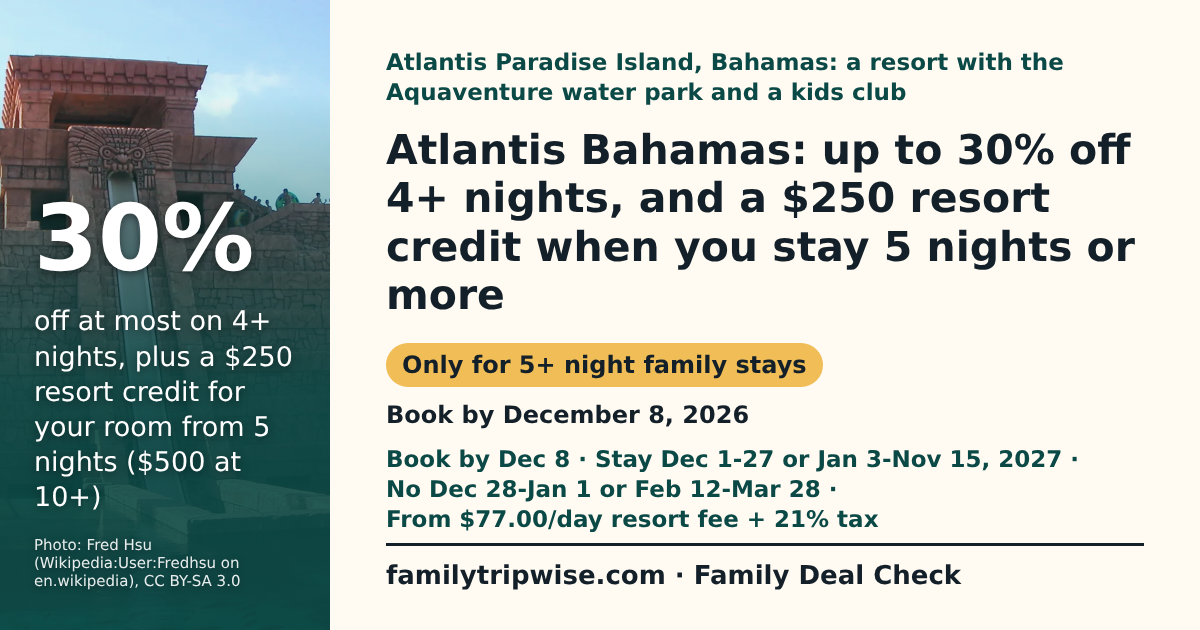
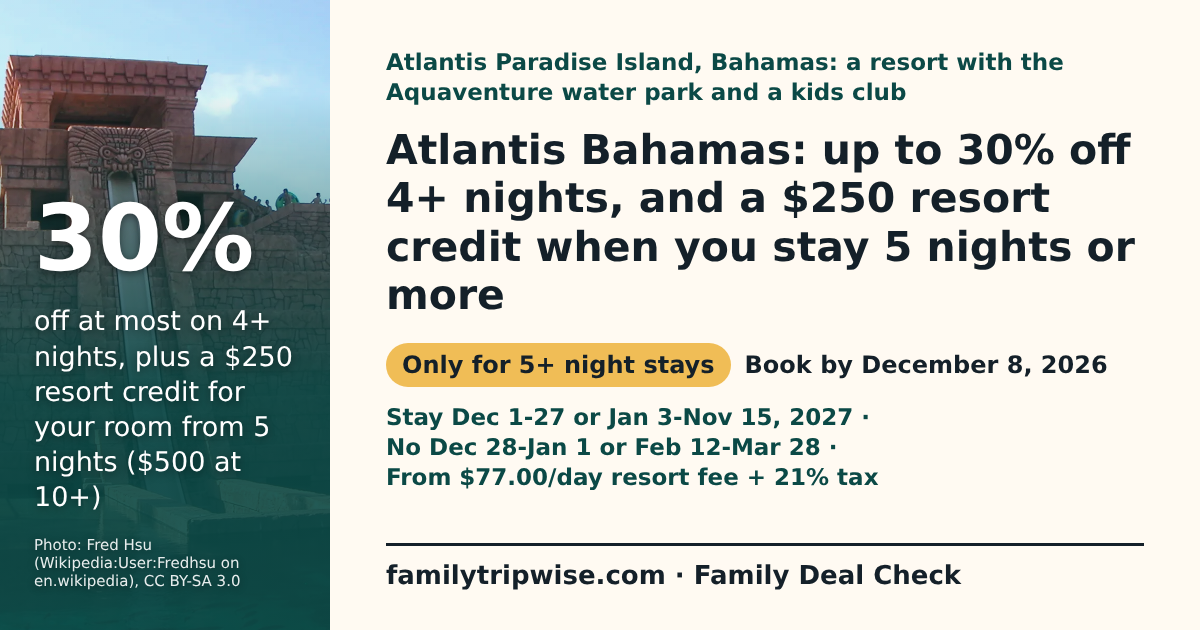
G09w: Atlantis Cyber Sale review fixes (evidence wording, shorter top, compare)
Claude-Session: https://claude.ai/code/session_018uWk6vnvh8cWxuzLkuCD3s

Changed region(s): [[0.3083, 0.5429, 0.925, 0.8444]]

diff --git a/site/deals/atlantis-bahamas-cyber-sale-2026.html b/site/deals/atlantis-bahamas-cyber-sale-2026.html
@@ -27,7 +27,7 @@
             <p class="eyebrow deal-context">Atlantis Paradise Island, Bahamas: a resort with the Aquaventure water park and a kids club</p>
             <h1>Atlantis Bahamas: up to 30% off 4+ nights, and a $250 resort credit when you stay 5 nights or more</h1>
             <div class="spend-save spend-save-missing" role="group" aria-label="What it costs a family of 4"><p class="ss-title">Trip cost for 2 adults and 2 kids aged 4 and 8, 5 nights at The Coral, without flights</p><p class="ss-lead">No price estimate yet</p><p>No Atlantis price seen for this family or regular rate; price The Coral on atlantisbahamas.com. Extra: 21% tax and levies, $77.00/day resort fee, required tips for ages 12+.</p></div>
-            <ul class="deal-chips" aria-label="Key terms"><li class="deal-chip-verdict deal-verdict-only_for">Only for 5+ night family stays</li><li>Book by December 8, 2026</li><li>Stay Dec 1-27 or Jan 3-Nov 15, 2027</li><li>No Dec 28-Jan 1 or Feb 12-Mar 28</li></ul>
+            <ul class="deal-chips" aria-label="Key terms"><li class="deal-chip-verdict deal-verdict-only_for">Only for 5+ night stays</li><li>Book by December 8, 2026</li><li>Stay Dec 1-27 or Jan 3-Nov 15, 2027</li><li>No Dec 28-Jan 1 or Feb 12-Mar 28</li></ul>
             
             <p class="contributor-credit">Researched with AI (<a href="../contributors/miles-rowan.html">Miles Rowan</a>) · sources linked and dated · <a href="../about.html">How we check</a></p>
           </div>
@@ -35,12 +35,12 @@
         </div>
       </section>
       <section id="deal-answer" class="container answer-box deal-glance" aria-label="Verdict, cost and savings">
-        <p class="deal-verdict deal-verdict-only_for"><strong>Our verdict:</strong> Worth a look only if you are set on 5+ nights at Atlantis: the credit can pay for the kids club, but no regular rate is shown, 4 nights gets no credit, and the resort fee, gratuities and 21% tax and levies add up for a family of 4.</p>
+        <p class="deal-verdict deal-verdict-only_for"><strong>Our verdict:</strong> Worth a look only for 5+ nights at Atlantis: the credit can pay for the kids club, but no regular rate is shown and fees and 21% tax add up.</p>
         <p><strong>Best for:</strong> Families planning 5 or more nights at Atlantis in early December or in 2027 outside mid-February to late March, who would use the kids club or dolphin activities.</p>
-        <p><strong>Not for:</strong> Families who want an all-inclusive price, a short 2 or 3 night stay, or a trip from December 28 to January 1 or February 12 to March 28, 2027: those dates are blacked out.</p>
+        <p><strong>Not for:</strong> Families wanting all-inclusive, a 2 or 3 night stay, or a trip from December 28 to January 1 or February 12 to March 28, 2027.</p>
         <p class="deal-also"><strong>Also note:</strong> From $77.00/day resort fee + 21% tax</p>
-        <p class="deal-money"><strong>Saves: up to 30% off the room on 4+ nights (&quot;up to&quot; is a maximum; your dates may get less) and one resort credit for your room: $250 for 5 nights, $300 for 6, $350 for 7 to 9, $500 for 10+.</strong></p>
-        <p>Trip cost: we have no checked price for a family of 4. Price 5 nights for 2 adults and 2 kids on atlantisbahamas.com; the 21% tax and levies, resort fee, gratuities (12+), meals and flights (for example from New York City, not priced) are extra.</p>
+        <p class="deal-money"><strong>Saves: up to 30% off the room on 4+ nights (a maximum), plus one room credit: $250 for 5 nights, $300 for 6, $350 for 7 to 9, $500 for 10+.</strong></p>
+        <p>Trip cost: we have no checked price for a family of 4. Fees, tax, meals and flights (for example from New York City) are extra.</p>
       </section>
         <figure class="container licensed-photo deal-photo">
           <img src="../images/atlantis-mayan-temple-slides.webp" alt="A water slide drops steeply down the front of a tall Mayan-style stone temple into a turquoise pool at Atlantis, with palm trees and people at the top" width="1600" height="1200" class="intrinsic-photo" loading="eager" fetchpriority="high" decoding="async">
@@ -49,15 +49,15 @@
       <section class="container page-section" aria-labelledby="deal-get-title">
         <h2 id="deal-get-title">What a family of 4 gets</h2>
         <p>Example family of 4: 2 adults and 2 kids aged 4 and 8, in one room for 5 nights at The Coral.</p>
-        <ul><li>Up to 30% off the room rate at The Coral, The Royal, The Reef or Harborside; the page does not say which rooms or dates get the full 30%.</li><li>One $250 credit for the room on a 5-night stay, usable at the kids club (Atlantis Kids Adventures), Dolphin &amp; Marine Adventures or Atlantis restaurants; unused credit is lost.</li><li>&quot;Kids 5 &amp; Under Eat Free&quot; is listed for the 4-year-old, but the offer page gives no conditions.</li></ul>
+        <ul><li>Up to 30% off the room rate at The Coral, The Royal, The Reef or Harborside; the page does not say which rooms or dates get the full 30%.</li><li>One $250 credit for the room on a 5-night stay, usable at the kids club (Atlantis Kids Adventures), Dolphin &amp; Marine Adventures or Atlantis restaurants; the credit has no cash value.</li><li>&quot;Kids 5 &amp; Under Eat Free&quot; is listed for the 4-year-old, but the offer page gives no conditions.</li></ul>
       </section>
       <section class="container page-section" aria-labelledby="deal-compare-title">
         <h2 id="deal-compare-title">Is it a good deal?</h2>
-        <ul><li>Worth it only if your price with the sale beats the same dates without it. The credit doesn&#39;t pay the fees; it helps only if you&#39;d spend on activities and meals there.</li><li>Fees added at The Coral for 5 nights: 5 × $77.00 resort fee (per room or per person is not stated), gratuities of up to $14 per person per night for each guest 12 or older (both adults here), and 21% tax and levies on the room rate.</li><li>We have not seen a regular rate to compare, so price both on the Atlantis site.</li></ul>
+        <ul><li>Added at The Coral: a $77.00 daily resort fee (per room or per person is not stated), tips up to $14 per person a night for guests 12+, and 21% tax on the room.</li><li>Atlantis&#39;s earlier Fall Into Paradise sale (ended Nov 22) listed up to 35% off and a $250 credit from 4 nights; this sale&#39;s top discount is lower.</li><li>No regular rate seen: price your dates with and without the sale on the Atlantis site. The credit doesn&#39;t pay fees.</li></ul>
       </section>
       <section class="container page-section" aria-labelledby="deal-catch-title">
         <h2 id="deal-catch-title">The catch</h2>
-        <ul class="deal-catch"><li>4 nights gets the discount but no resort credit; the credit starts at 5 nights.</li><li>Not valid December 28, 2026 to January 1, 2027 or February 12 to March 28, 2027.</li><li>21% tax and levies, the daily resort fee and gratuities for everyone 12 and older are added to the room price.</li></ul>
+        <ul class="deal-catch"><li>The credit table starts at 5 nights; a 4-night stay gets the discount only.</li><li>Not valid December 28, 2026 to January 1, 2027 or February 12 to March 28, 2027.</li><li>21% tax and levies, the daily resort fee and gratuities for everyone 12 and older are added to the room price.</li></ul>
       </section>
       <section class="container page-section" aria-labelledby="deal-how-title">
         <h2 id="deal-how-title">How to get it</h2>
@@ -72,7 +72,7 @@
       <section class="container page-section" aria-labelledby="deal-proscons-title">
         <h2 id="deal-proscons-title">Pros and cons</h2>
         <div class="deal-proscons">
-          <div><h3>Pros</h3><ul><li>The resort credit can pay for the kids club or a dolphin or marine activity.</li><li>The sale runs to November 15, 2027, so summer 2027 trips qualify.</li><li>Kids 5 and under are listed as eating free.</li></ul></div>
+          <div><h3>Pros</h3><ul><li>The resort credit can pay for the kids club or a dolphin or marine activity.</li><li>Stays can run to November 15, 2027, so summer 2027 trips qualify (book by Dec 8).</li><li>Kids 5 and under are listed as eating free.</li></ul></div>
           <div><h3>Cons</h3><ul><li>21% tax and levies, a daily resort fee and gratuities for guests 12 and older are added.</li><li>Christmas to New Year and mid-February to late March 2027 are blacked out.</li><li>&quot;Up to 30%&quot; is a maximum, and no regular rate is shown to compare.</li></ul></div>
         </div>
       </section>
@@ -84,7 +84,7 @@
             <table class="deal-terms" role="table">
               <caption>What the Atlantis Paradise Island offer page said on November 23, 2026</caption>
               <thead role="rowgroup"><tr role="row"><th scope="col" role="columnheader">Term</th><th scope="col" role="columnheader">What the official page says</th></tr></thead>
-              <tbody role="rowgroup"><tr role="row"><th scope="row" role="rowheader">Headline</th><td role="cell">&quot;Up to 30% + Resort Credit of Up to $500&quot; on stays of 4 or more nights booked during Cyber Week.</td></tr><tr role="row"><th scope="row" role="rowheader">Book by</th><td role="cell">December 8 (&quot;Book now through December 8&quot;); new reservations only.</td></tr><tr role="row"><th scope="row" role="rowheader">Travel window</th><td role="cell">December 1 to 27, 2026 and January 3 to November 15, 2027. All stay dates must fall inside one eligible period (no crossover dates).</td></tr><tr role="row"><th scope="row" role="rowheader">Blackout dates</th><td role="cell">December 28, 2026 to January 1, 2027 and February 12 to March 28, 2027; the page adds that further blackout dates may apply.</td></tr><tr role="row"><th scope="row" role="rowheader">Minimum nights</th><td role="cell">4 nights for the discount; the resort credit starts at 5 nights.</td></tr><tr role="row"><th scope="row" role="rowheader">Hotels</th><td role="cell">The Coral, The Royal, The Reef and Harborside for up to 30%. The Cove has a separate offer: up to 20% off 4+ nights and a resort credit of up to $600.</td></tr><tr role="row"><th scope="row" role="rowheader">Resort credit</th><td role="cell">Per room, per stay at The Royal, The Coral, The Reef and Harborside: $250 for 5 nights, $300 for 6, $350 for 7 to 9 and $500 for 10 or more. Usable for Dolphin &amp; Marine Adventures, Atlantis Kids Adventures, CRUSH, Lost City Escape Room, Good Lies and Atlantis food and beverage outlets; not for Atlantis LIVE performances, the spa, golf, the casino, retail shops, laundry, gratuities, transportation, taxes or energy surcharges. No cash value.</td></tr><tr role="row"><th scope="row" role="rowheader">Child ages</th><td role="cell">&quot;Kids 5 &amp; Under Eat Free&quot; is listed as a highlight with no conditions on the offer page. Mandatory gratuities apply to guests 12 and older. No other child terms are stated.</td></tr><tr role="row"><th scope="row" role="rowheader">Still charged</th><td role="cell">A 21% charge on the nightly room rate (VAT and levies); a daily resort fee of $77.00 at The Coral and The Royal and $82.50 at The Cove and The Reef; mandatory gratuities for guests 12 and older of up to $14 per person per night at The Coral and The Royal, up to $30 at The Cove and up to $52 at The Reef; at Harborside, a $20.52 per person daily utility service fee and $6.25 per person daily gratuities (12 and older). All subject to change.</td></tr><tr role="row"><th scope="row" role="rowheader">Combining</th><td role="cell">Not combinable with other offers or consortia amenities; not valid for group or casino bookings; not honored for reservations cancelled and rebooked.</td></tr></tbody>
+              <tbody role="rowgroup"><tr role="row"><th scope="row" role="rowheader">Headline</th><td role="cell">&quot;Up to 30% + Resort Credit of Up to $500&quot; on stays of 4 or more nights.</td></tr><tr role="row"><th scope="row" role="rowheader">Book by</th><td role="cell">December 8 (&quot;Book now through December 8&quot;); new reservations only.</td></tr><tr role="row"><th scope="row" role="rowheader">Travel window</th><td role="cell">December 1 to 27, 2026 and January 3 to November 15, 2027. All stay dates must fall inside one eligible period (no crossover dates).</td></tr><tr role="row"><th scope="row" role="rowheader">Blackout dates</th><td role="cell">December 28, 2026 to January 1, 2027 and February 12 to March 28, 2027; the page adds that further blackout dates may apply.</td></tr><tr role="row"><th scope="row" role="rowheader">Minimum nights</th><td role="cell">4 nights for the discount; the resort credit starts at 5 nights.</td></tr><tr role="row"><th scope="row" role="rowheader">Hotels</th><td role="cell">The Coral, The Royal, The Reef and Harborside for up to 30%. The Cove has a separate offer: up to 20% off 4+ nights and a resort credit of up to $600.</td></tr><tr role="row"><th scope="row" role="rowheader">Resort credit</th><td role="cell">Per room, per stay at The Royal, The Coral, The Reef and Harborside: $250 for 5 nights, $300 for 6, $350 for 7 to 9 and $500 for 10 or more. Usable for Dolphin &amp; Marine Adventures, Atlantis Kids Adventures, CRUSH, Lost City Escape Room, Good Lies and Atlantis food and beverage outlets; not for Atlantis LIVE performances, the spa, golf, the casino, retail shops, laundry, gratuities, transportation, taxes or energy surcharges. No cash value.</td></tr><tr role="row"><th scope="row" role="rowheader">Child ages</th><td role="cell">&quot;Kids 5 &amp; Under Eat Free&quot; is listed as a highlight with no conditions on the offer page. Mandatory gratuities apply to guests 12 and older. No other child terms are stated.</td></tr><tr role="row"><th scope="row" role="rowheader">Still charged</th><td role="cell">A 21% charge on the nightly room rate (VAT and levies); a daily resort fee of $77.00 at The Coral and The Royal and $82.50 at The Cove and The Reef; mandatory gratuities for guests 12 and older of up to $14 per person per night at The Coral and The Royal, up to $30 at The Cove and up to $52 at The Reef; at Harborside, a $20.52 per person daily utility service fee and $6.25 per person daily gratuities (12 and older). All subject to change.</td></tr><tr role="row"><th scope="row" role="rowheader">Combining</th><td role="cell">Not combinable with other offers or consortia amenities; not valid for group or casino bookings; not honored for reservations cancelled and rebooked.</td></tr></tbody>
             </table>
           </div>
         </details>

diff --git a/site/deals/index.html b/site/deals/index.html
@@ -168,7 +168,7 @@
           <article class="detail-card deal-card" id="atlantis-bahamas-cyber-sale-2026">
             <p class="fresh-type">Atlantis Paradise Island, Bahamas: a resort with the Aquaventure water park and a kids club</p>
             <h3><a href="./atlantis-bahamas-cyber-sale-2026.html">Atlantis Bahamas: up to 30% off 4+ nights, and a $250 resort credit when you stay 5 nights or more</a></h3>
-            <p>Saves: up to 30% off the room on 4+ nights (&quot;up to&quot; is a maximum; your dates may get less) and one resort credit for your room: $250 for 5 nights, $300 for 6, $350 for 7 to 9, $500 for 10+.</p>
+            <p>Saves: up to 30% off the room on 4+ nights (a maximum), plus one room credit: $250 for 5 nights, $300 for 6, $350 for 7 to 9, $500 for 10+.</p>
             <p class="deal-deadline"><strong>Book by:</strong> December 8, 2026</p>
             <p class="deal-source">Official page, checked November 23, 2026: <a href="https://www.atlantisbahamas.com/offers/cyber-sale">Atlantis Exclusive Cyber Sale offer page</a></p>
           </article>

diff --git a/docs/research/deal-checks-2026-11-23-atlantis-cyber-sale.md b/docs/research/deal-checks-2026-11-23-atlantis-cyber-sale.md
@@ -6,6 +6,7 @@ Flag (watcher 2026-11-24 02:19Z): /fall-into-paradise-offer specials index now f
 |---|---|---|
 | atlantisbahamas.com/exclusive-atlantis-offers-cyber-sale | Specials listing (canonical /specials): "Exclusive Cyber Sale: Up to 30% + Resort Credit of Up to $500", "Book 4+ nights"; no dates; meta years conflict (2025/2026) | New listing; points to /offers/cyber-sale |
 | atlantisbahamas.com/offers/cyber-sale | "Book now through December 8 for stays from December 1–27, 2026, and from January 3 through November 15, 2027." Blackouts Dec 28, 2026–Jan 1, 2027 and Feb 12–Mar 28, 2027; no crossover dates. Up to 30% on 4+ nights at The Coral, The Royal, The Reef, Harborside. Credit per room, per stay: 5 nights $250, 6 $300, 7–9 $350, 10+ $500. The Cove: up to 20% on 4+ nights, credit up to $600 (5 $300, 6 $350, 7–9 $450, 10+ $600). "Kids 5 & Under Eat Free" (no conditions). Still charged: 21% on room rate; resort fee $77.00/day Coral/Royal, $82.50 Cove/Reef; gratuities 12+ up to $14/$30/$52 pp/night; Harborside $20.52 pp utility fee + $6.25 pp gratuity (12+). Not combinable (incl. consortia); new reservations only; no rates shown. Banner path /files/2026/11/ | New offer (Fall Into Paradise ended Nov 22) |
+| atlantisbahamas.com/offers/cyber-sale (further terms, same read) | Credit usable for "Dolphin & Marine Adventures, Atlantis Kids Adventures, CRUSH, Lost City Escape Room, Good Lies, or Atlantis food and beverage outlets"; not at Atlantis LIVE, Mandara Spa, Ocean Club Golf, the Casino, Marina Starbucks, The Dilly Club, Atlantis Signature or other retail shops; not for laundry, gratuities, in-room movies or calls, transportation, taxes or energy surcharges; "resort credit has no cash value"; "No credits will be provided for unused components". 21% = 10% VAT + 4.4% PITDA levy + 6.6% NPIPB levy. Gratuities 12+: up to $14 pp/night Coral and Royal, $30 Cove, $52 Reef. "subject to availability and additional blackout dates"; "All VAT, levies, resort fees, and mandatory gratuities are subject to change without notice." Not valid for group or casino bookings; "will not be honored for reservations canceled and rebooked"; not combinable with consortia amenities. | New offer |
 | milled.com Atlantis "Cyber Sale early access" email | Not read (client error; no retry) | Third-party lead only |
 
 Coverage (third party): SheBuysTravel via NewsBreak and Clark Deals report "up to 30% on 2027 stays".
